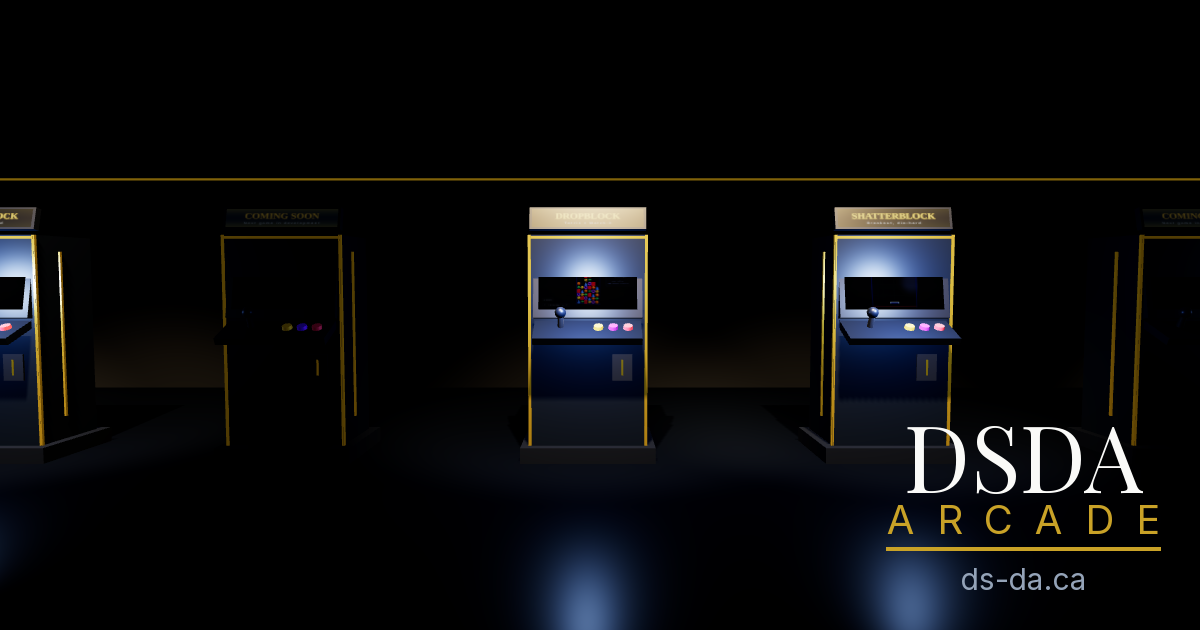
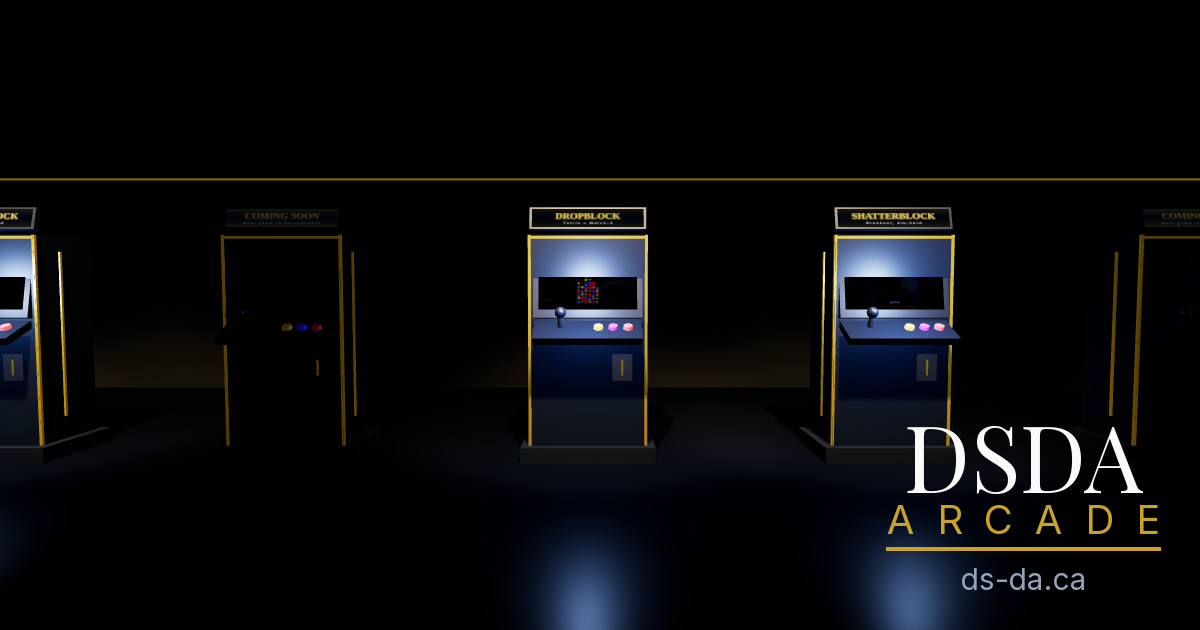
DSDA Arcade: fix washed-out lit-cabinet marquees
The cabinet spotlight was speculating across the glossy marquee (dielectric
f0 x intensity 140), blowing the dark-navy bg to tan and killing text
contrast on the lit cabinets (DropBlock/ShatterBlock). Marquees are
self-lit signs, so switch the face to an unlit MeshBasicMaterial — shows
the texture as-is, immune to the spotlight. Pulse now animates
material.color instead of emissiveIntensity. Re-rendered the og image to
match (dark marquees with gold type).

Changed region(s): [[0.6783, 0.3317, 0.8017, 0.3619], [0.4317, 0.3317, 0.555, 0.3619], [0.0, 0.3317, 0.0308, 0.3619]]

diff --git a/games/index.html b/games/index.html
@@ -349,9 +349,10 @@
         mq.position.set(0, 1.84, 0.26); mq.rotation.x = -0.22; grp.add(mq);
         const mqBox = new THREE.Mesh(new THREE.BoxGeometry(0.88, 0.17, 0.05), darkMat);
         mqBox.castShadow = true; mq.add(mqBox);
-        const mqMat = new THREE.MeshStandardMaterial({
-          color: 0x000000, emissive: 0xffffff, emissiveMap: makeMarqueeTexture(game.name, game.tag, game.dark),
-          emissiveIntensity: game.dark ? 0.6 : 0.72, roughness: 0.4
+        // self-lit sign: unlit basic material so the cabinet spotlight can't wash it out
+        const mqMat = new THREE.MeshBasicMaterial({
+          map: makeMarqueeTexture(game.name, game.tag, game.dark),
+          color: 0xffffff
         });
         const mqFace = new THREE.Mesh(new THREE.PlaneGeometry(0.84, 0.14), mqMat);
         mqFace.position.z = 0.028; mq.add(mqFace);
@@ -589,7 +590,7 @@
           }
           c.screenMat.uniforms.uGlow.value = c.hoverGlow;
           const mqBase = c.game.dark ? 0.6 : 0.72;
-          c.marqueeMat.emissiveIntensity = mqBase * (1 + 0.12 * Math.sin(t * 1.4 + i * 1.7)) * (state.phase === 'zooming' && zoomState.i === i ? 1.5 : 1);
+          c.marqueeMat.color.setScalar(mqBase * (1 + 0.12 * Math.sin(t * 1.4 + i * 1.7)) * (state.phase === 'zooming' && zoomState.i === i ? 1.5 : 1));
         });
 
         // infinite horizontal drift + wrap
